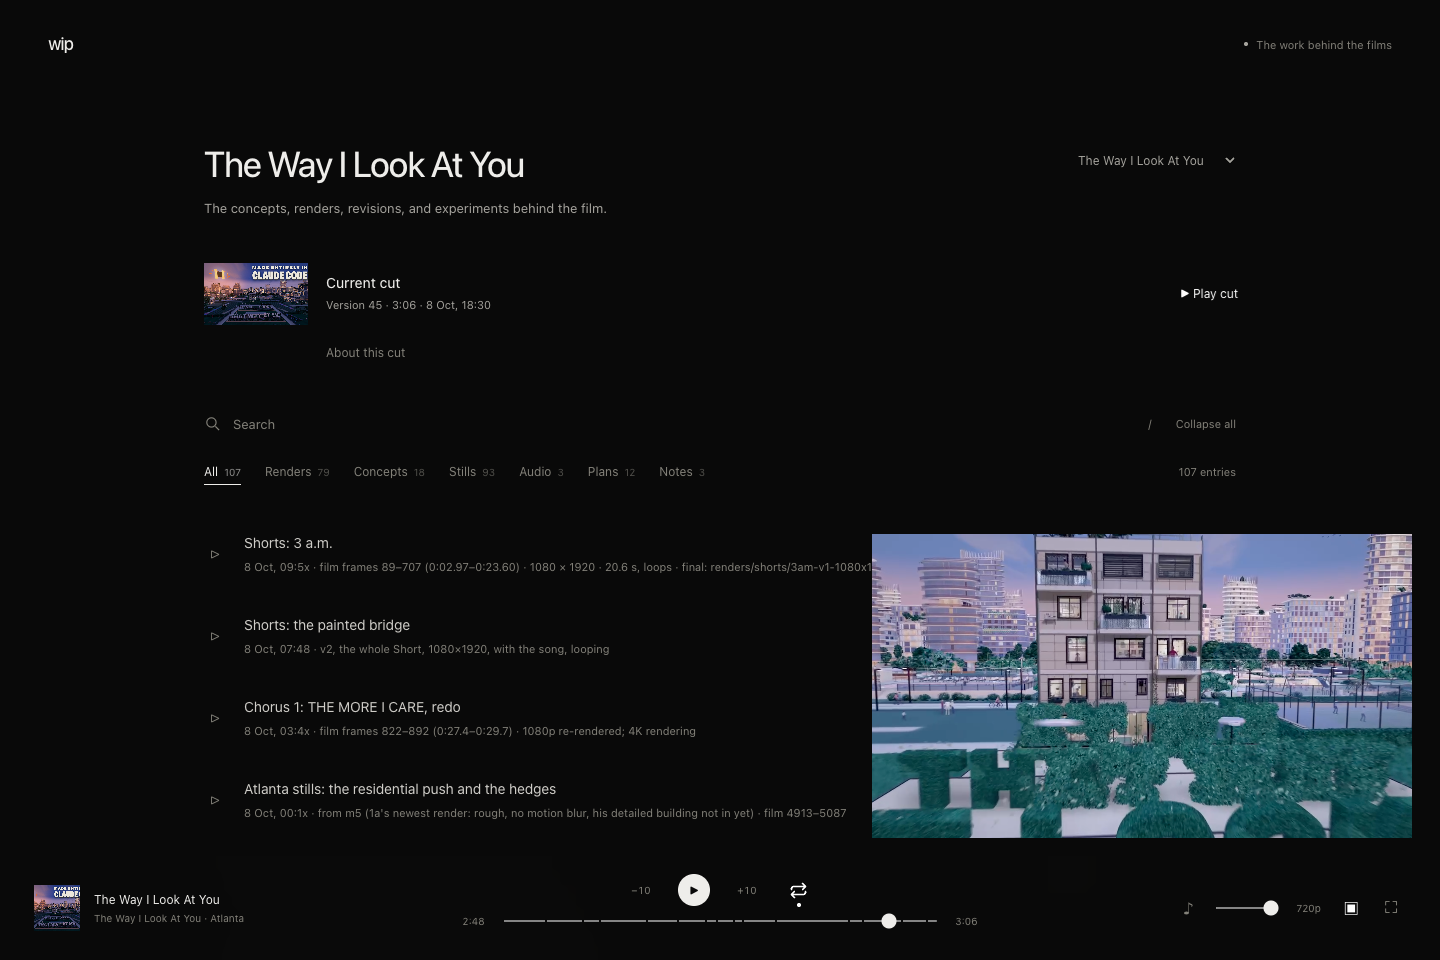
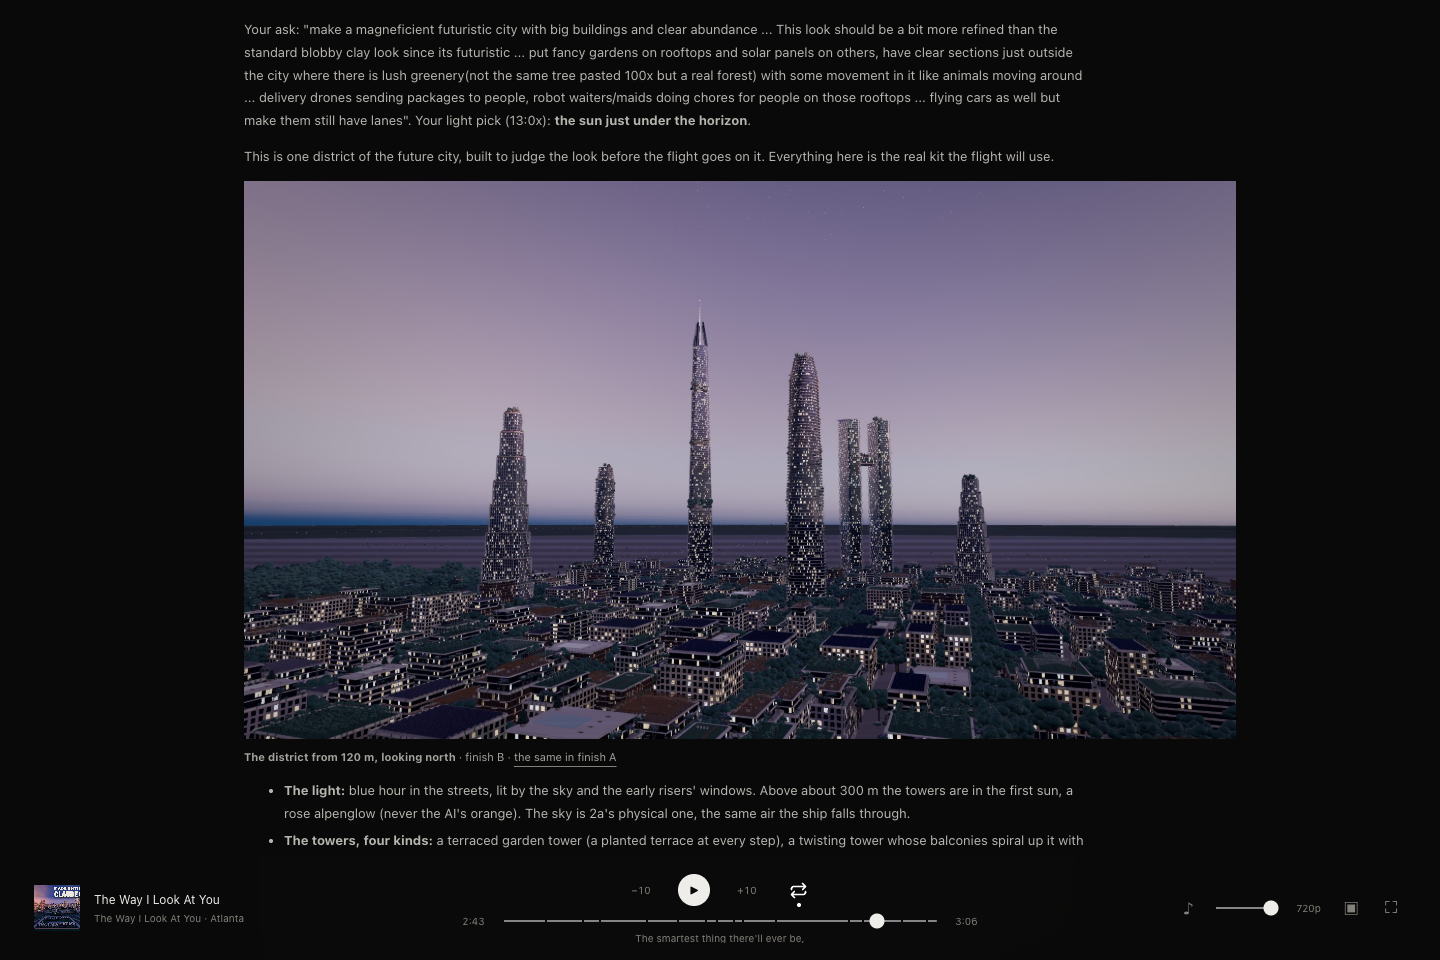
Use the real film workspace throughout the README

diff --git a/docs/development.md b/docs/development.md
@@ -39,16 +39,19 @@ Automated tests do not replace those checks.
 
 ## README screenshots
 
-The screenshots are real browser captures, taken at 1440 × 960 CSS pixels:
+All README images are real browser captures of the public
+[The Way I Look At You workspace](https://imaginativeprompting.com/wip/?project=the-way-i-look-at-you),
+taken at 1440 × 960 CSS pixels:
 
-- `images/wip-player.png`: select First light, play its current cut, pause at
-  about five seconds, and leave the preview visible.
-- `images/wip-concepts.png`: hide the video preview, select Concepts, and expand
-  Start with a feeling.
-- `images/wip-films.png`: the separately reviewed Imaginative Prompting website
-  collection, with The Way I Look At You selected and its current cut visible.
+- `images/wip-player.png`: play the current cut, seek to the Atlanta sequence
+  around 2:41, pause, and leave its picture visible beside the production list.
+- `images/wip-concepts.png`: hide the preview and select Concepts, leaving the
+  real concept entries and persistent player visible.
+- `images/wip-films.png`: search for Atlanta at dawn, expand the original city
+  look test, and scroll to show its rendered district still and production notes.
 
 Capture only the page viewport, with no desktop, address bar, credentials, or
-private workspace content. The First light media is included in this repository;
-the film screenshot documents a separate installation. Refresh screenshots when
-the interface changes, and inspect every image before committing it.
+private workspace content. These images document the reviewed film workspace;
+the separate First light example remains the self-contained local starter.
+Refresh screenshots when the interface changes, and inspect every image before
+committing it. Do not substitute starter-demo screenshots for the film workspace.

diff --git a/README.md b/README.md
@@ -10,7 +10,9 @@ Concepts, renders, notes, and the current cut — one list, one player.
 
 </div>
 
-![WIP showing the First light example, its current cut, tagged entries, and the persistent audio and video player](docs/images/wip-player.png)
+![The Way I Look At You workspace showing the current cut, production entries, and the persistent player with a film preview](docs/images/wip-player.png)
+
+*All screenshots show the real [The Way I Look At You workspace](https://imaginativeprompting.com/wip/?project=the-way-i-look-at-you).*
 
 WIP is a local, file-based review app for people making things with agents.
 Keep an idea next to its first attempt, compare the next version, and leave the
@@ -59,7 +61,7 @@ projects and connect existing media folders.
 
 ## Find an idea without losing your place
 
-![The Concepts tag filters the First light workspace while an expanded entry shows its direction and notes](docs/images/wip-concepts.png)
+![The Concepts tag filters The Way I Look At You workspace to its real thumbnail options, city look tests, and style explorations](docs/images/wip-concepts.png)
 
 Search includes the text inside collapsed entries. Tags describe the work;
 review status is separate. Select more than one tag to see entries matching
@@ -112,7 +114,7 @@ creative approval.
 
 ## In use: the work behind the films
 
-![The Way I Look At You in WIP, with its current cut, production entries, and a synchronized film preview](docs/images/wip-films.png)
+![An expanded Atlanta city look study from The Way I Look At You, with production notes, a rendered still, and the persistent player](docs/images/wip-films.png)
 
 WIP also powers the work-in-progress collection at
 [Imaginative Prompting](https://imaginativeprompting.com/wip/). This is a separate
